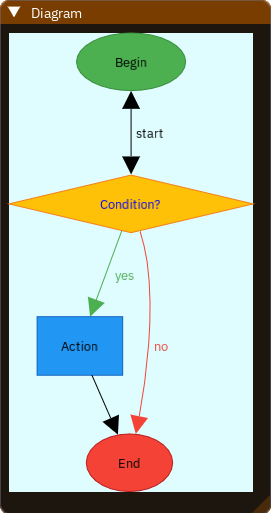
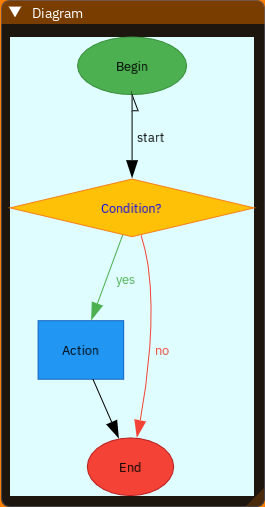
Improved arrowhead draw: always have the proper length; half left, half right and outlined styles added; fixed gap between the arrowhead and the arc in some circumstances.

Changed region(s): [[0.0, 0.0, 1.0, 1.0], [0.966, 0.0, 1.0, 0.0296]]

diff --git a/src/ImGuiDot.cpp b/src/ImGuiDot.cpp
@@ -5,6 +5,7 @@
 #include <algorithm>
 #include <cgraph.h>
 #include <colorprocs.h>
+#include <cstdint>
 #include <cstring>
 #include <gvc.h>
 #include <gvplugin.h>
@@ -27,6 +28,10 @@ namespace ImGuiDot
     // then:
     //  number of pixels = (typographic points) * (DPI / 72).
     static const constexpr float PIXEL_PER_PPI = 96.0f / PPI;
+
+    static const constexpr uint8_t ARROW_OUTLINE_MASK    = 0x10;
+    static const constexpr uint8_t ARROW_HALF_LEFT_MASK  = 0x80;
+    static const constexpr uint8_t ARROW_HALF_RIGHT_MASK = 0x40;
 
     // ----- Global variables to use the Graphviz plugins -----
 
@@ -83,7 +88,8 @@ namespace ImGuiDot
 
     static void DrawNodes(const Parameters &params);
     static void DrawArcs(const Parameters &params, Agnode_t *const node);
-    static void DrawArrowTip(const Parameters &params, const Vec2 &apex, const Vec2 &from, const ImU32 color);
+    static void DrawArrowTip(
+        const Parameters &params, const Vec2 &apex, const Vec2 &from, const ImU32 color, uint32_t flags);
     static void DrawLabel(
         const Parameters &params,
         const textlabel_t *const label,
@@ -303,7 +309,7 @@ namespace ImGuiDot
 
     /// @brief Draw all the arcs of a node.
     /// @param params The internal state and parameters to use.
-    /// @param node The Graphiviz node.
+    /// @param node The Graphviz node.
     static void DrawArcs(const Parameters &params, Agnode_t *const node)
     {
         ImDrawList *const draw    = ImGui::GetWindowDrawList();
@@ -338,8 +344,8 @@ namespace ImGuiDot
                 if (bezier.sflag)
                 {
                     const Vec2 apex = ConvertPoint(params, bezier.sp);
-                    const Vec2 from = ConvertPoint(params, bezier.list[1]);
-                    DrawArrowTip(params, apex, from, color.color);
+                    const Vec2 from = ConvertPoint(params, bezier.list[0]);
+                    DrawArrowTip(params, apex, from, color.color, bezier.sflag);
                 }
 
                 // Arrow tip at the arc end.
@@ -347,7 +353,7 @@ namespace ImGuiDot
                 {
                     const Vec2 apex = ConvertPoint(params, bezier.ep);
                     const Vec2 from = ConvertPoint(params, bezier.list[bezier.size - 1]);
-                    DrawArrowTip(params, apex, from, color.color);
+                    DrawArrowTip(params, apex, from, color.color, bezier.eflag);
                 }
             }
 
@@ -365,8 +371,33 @@ namespace ImGuiDot
     /// @param apex The coordinate of the apex of the arrow tip. [pixel]
     /// @param from The coordinate of the arc point where the arrow tip is placed. [pixel]
     /// @param color The color of the arrow tip.
-    static void DrawArrowTip(const Parameters &params, const Vec2 &apex, const Vec2 &from, const ImU32 color)
+    static void DrawArrowTip(
+        const Parameters &params, const Vec2 &apex, const Vec2 &from, const ImU32 color, uint32_t flags)
     {
+        // Arrowhead flag format in Graphviz (https://graphviz.org/doc/info/arrows.html).
+        //
+        // Up to 4 arrowhead types combined together, 1 byte per arrowhead type.
+        // All bytes share the same format:
+        //    RL0B TTTT
+        // where
+        //   - R = bit set if only the right half of the arrowhead should be drawn;
+        //   - L = bit set if only the left half of the arrowhead should be drawn;
+        //   - B = bit set if the outline of the arrowhead should be drawn;
+        //   - T = 4-bit number indicating the arrowhead type;
+        //   - if neither R nor L is set, the full arrowhead should be drawn;
+        // The arrowhead types are:
+        //   - 0 = none;
+        //   - 1 = normal (triangular);
+        //   - 2 = crow;
+        //   - 3 = tee;
+        //   - 4 = box;
+        //   - 5 = diamond;
+        //   - 6 = dot;
+        //   - 7 = curve;
+        //   - 8 = gap;
+
+        // At the moment only the normal (triangular) arrowhead is draw considering the various bit combinations.
+
         // Direction to the arrow tip.
         Vec2 direction(apex.x - from.x, apex.y - from.y);
         if (!direction.Normalize()) return;
@@ -374,18 +405,34 @@ namespace ImGuiDot
         // Perpendicular unit vector.
         const Vec2 n(-direction.y, direction.x);
 
-        static constexpr float TIP_LENGTH = 15.0f;             // [pixel]
-        static constexpr float TIP_WIDTH  = TIP_LENGTH * 0.5f; // [pixel]
+        static constexpr float TIP_WIDTH = 5.0f; // [pixel]
 
         // Centre point of the base of the triangle.
-        const Vec2 base = apex - direction * TIP_LENGTH * params.zoom;
+        const Vec2 base = from;
 
         const Vec2 v0 = apex;
-        const Vec2 v1 = base + n * TIP_WIDTH * params.zoom;
-        const Vec2 v2 = base - n * TIP_WIDTH * params.zoom;
+        Vec2 v1;
+        Vec2 v2;
+
+        if (flags & ARROW_HALF_LEFT_MASK)
+        {
+            v1 = base + n * TIP_WIDTH * params.zoom;
+            v2 = base;
+        }
+        else if (flags & ARROW_HALF_RIGHT_MASK)
+        {
+            v1 = base;
+            v2 = base - n * TIP_WIDTH * params.zoom;
+        }
+        else
+        {
+            v1 = base + n * TIP_WIDTH * params.zoom;
+            v2 = base - n * TIP_WIDTH * params.zoom;
+        }
 
         ImDrawList *const draw = ImGui::GetWindowDrawList();
-        draw->AddTriangleFilled(v0, v1, v2, color);
+        if (flags & ARROW_OUTLINE_MASK) draw->AddTriangle(v0, v1, v2, color);
+        else draw->AddTriangleFilled(v0, v1, v2, color);
     }
 
     /// @brief Draw a Graphiviz label of a node or an arc or other.

diff --git a/src/ImGuiDot.h b/src/ImGuiDot.h
@@ -15,7 +15,8 @@ namespace ImGuiDot
     bool Initialize();
 
     /// @brief Clean up the global resources used.
-    /// @remark This function must be call one time before the end of the program when the library is not more necessary.
+    /// @remark This function must be call one time before the end of the program when the library is not more
+    ///         necessary.
     void CleanUp();
 
     // ----- -----

diff --git a/Readme.md b/Readme.md
@@ -38,7 +38,7 @@ const char* const dotSourceCode = R"(digraph Flow {
     action [shape=box,      fillcolor="#2196F3", color="#1565C0", label="Action"]
     end    [shape=ellipse,  fillcolor="#F44336", color="#B71C1C", label="End"]
 
-    start  -> check  [label="start", dir="both"]
+    start  -> check  [label="start", dir="both", arrowtail="ornormal"]
     check  -> action [label="yes", color="#4CAF50", fontcolor="#4CAF50"]
     check  -> end    [label="no" , color="#F44336", fontcolor="#F44336"]
     action -> end
@@ -58,9 +58,8 @@ ImGui::End();
     - circle;
     - ellipse;
     - diamond;
-- arcs:
-    - oriented and not oriented;
-    - filled triangular arrow tip (correspond to the normal one in Graphviz);
+- arcs: oriented and not oriented;
+- arrowheads: only the normal one (triangular shape) with half left, half right, outline and solid styles;
 - labels:
     - text with support to UTF-8;
     - font size;